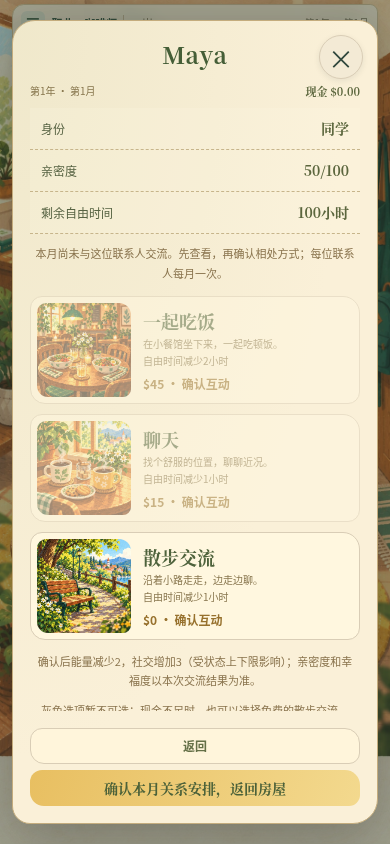
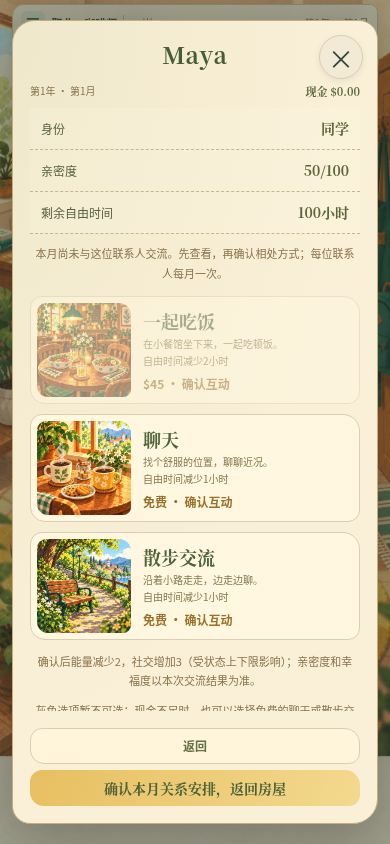
Apply confirmed free chat and walk with dinner at45

diff --git a/sw.js b/sw.js
@@ -1,5 +1,5 @@
-const CACHE='wealth-life-v28.3-social-per-person1';
-const ASSETS=["./social-records.js?v=28.3-social-per-person1","./social-time.js?v=28.3-social-per-person1","./social-pages-art.js?v=28.3-social-per-person1","./social-pages-art.css?v=28.3-social1","./assets/career/social-scenes.webp","./assets/career/life-funding.webp","./life-pages-art.js?v=28.3-life-pages1","./life-pages-art.css?v=28.3-life-pages1","./assets/career/life-activities.webp","./insurance-rules.js?v=28.3-insurance1","./insurance-hub.js?v=28.3-insurance1","./insurance-hub.css?v=28.3-insurance1","./life-hub-art.js?v=28.3-life-hub1","./life-hub-art.css?v=28.3-life-hub1","./assets/career/life-arrangements.webp","./recovery-activity-guards.js?v=28.3-recovery-guard1","./pet-social-contacts.js?v=28.3-pet-simple1","./assets/career/pet-gecko-cleaning.webp","./assets/career/pet-spider-cleaning.webp","./assets/career/pet-tortoise-cleaning.webp","./assets/career/pet-chameleon-cleaning.webp","./assets/career/pet-cat-professional.webp","./assets/career/pet-cat-cleaning-scenes.webp","./pet-art-map.js?v=28.3-pet-simple1","./pet-art-map.css?v=28.3-pet-map1","./pet-page-art.js?v=28.3-pet-map1","./assets/career/pet-policy.webp","./assets/career/pet-crocodile-cleaning.webp","./assets/career/pet-crocodile-adoption.webp","./assets/career/pet-cat-adoption.webp","./pet-funds-shortage.js?v=28.3-pet-funds1","./pet-funds-shortage.css?v=28.3-pet-funds1","./pet-adoption-success.js?v=28.3-pet-map1","./pet-adoption-success.css?v=28.3-pet-success1","./assets/career/pet-adoption-success.webp","./pet-owned-hub.js?v=28.3-pet-map1","./pet-owned-hub.css?v=28.3-pet-owned1","./assets/career/pet-owned-sheet.webp","./assets/career/pet-cleaning-scenes.webp","./pet-daily-care.js?v=28.3-pet-simple1","./pet-daily-care.css?v=28.3-pet-clean-art1","./pet-adoption-art.js?v=28.3-pet-map1","./pet-adoption-art.css?v=28.3-pet-form1","./assets/career/pet-corgi-adoption.webp","./pet-selection-art.js?v=28.3-pet-entry1","./pet-selection-art.css?v=28.3-pet-center1","./assets/career/pet-selection.webp","./pet-hub-art.js?v=28.3-pet-care-label1","./pet-hub-art.css?v=28.3-pet-hub1","./assets/career/pet-hub.webp","./assets/career/home-mobile.webp","./room-arrangements.js?v=28.3-pet-map1","./map-card-data.js?v=28.3-pet-social-limit1", "./map-card-rules.js?v=28.3-mapcards1", "./map-card-system.js?v=28.3-pet-simple1", "./map-card.css?v=28.3-mapcards1", "./assets/career/map-pet-unwell.webp", "./assets/career/map-pet-injury.webp", "./assets/career/map-pet-companion.webp", "./assets/career/map-pet-social.webp", "./assets/career/map-pet-mishap.webp", "./assets/career/map-investment-studio.webp", "./assets/career/map-investment-bun-shop.webp", "./assets/career/map-investment-laundry.webp"] .concat(["./cafe-rules.js?v=28.3-manager1","./cafe-system.js?v=28.3-manager1","./career-entry.js?v=28.3-mobile-room1","./career-entry.css?v=28.3-entry2","./assets/career/shift-promotion-pending.webp","./assets/career/shift-promotion-preview.webp","./assets/career/coffee-course.webp","./pet-adoption.js?v=28.3-pet-success1","./candidate-art.js?v=28.3-candidate1","./assets/career/barista-portrait.webp","./assets/career/pet-time-shortage.webp","./assets/career/pet-funds-shortage.webp","./assets/career/pet-crocodile-care.webp","./assets/career/bank-application.webp","./assets/career/bank-payment.webp","./housing-art.js?v=28.3-housing1","./assets/career/housing-select.webp","./assets/career/housing-reserve.webp","./assets/career/living-cost.webp","./return-art.js?v=28.3-return1","./assets/career/insurance.webp","./assets/career/return-energy.webp","./assets/career/return-stress.webp","./assets/career/payday.webp","./health-art.js?v=28.3-health1","./assets/career/rest-arrange.webp","./assets/career/rest-complete.webp","./assets/career/hospital-recovery.webp","./assets/career/month-recovery.webp","./education-art.js?v=28.3-education1","./assets/career/degrees.webp","./assets/career/associate-preview.webp","./learning-art.js?v=28.3-learning1","./assets/career/learning.webp","./assets/career/management-course.webp","./assets/career/service-course.webp","./hobby-art.js?v=28.3-room2","./assets/career/hobbies.webp","./home-scene.js?v=28.3-room-unified1","./home-scene.css?v=28.3-room-unified1","./assets/career/home.webp","./release-info.js?v=28.3-internal1","./financial-crisis.js?v=28.3-internal1","./four-state.js?v=28.3-internal1","./rest-state.js?v=28.3-internal1","./coffee-salary.js?v=28.3-internal1","./housing-lease.js?v=28.3-internal1","./pet-care.js?v=28.3-pet-map1","./necessary-bills.js?v=28.3-internal1","./recovery-ui.js?v=28.3-internal1","./medical-insurance.js?v=28.3-internal1","./recovery-rules.js?v=28.3-internal1","./time-ledger.js?v=28.3-internal1","./time-flow.js?v=28.3-home-end1","./assets/career/town.webp","./coffee-career.js?v=28.3-mapcards1", "./assets/career/barista-staff.webp", "./assets/career/barista-busy.webp", "./assets/career/barista-cut.webp", "./assets/career/barista-tip.webp", "./assets/career/barista-departure.webp", "./assets/career/shift-training.webp", "./assets/career/shift-schedule.webp", "./assets/career/shift-schedule-success.webp", "./assets/career/shift-schedule-failure.webp", "./assets/career/shift-complaint.webp", "./assets/career/shift-complaint-success.webp", "./assets/career/shift-complaint-failure.webp", "./assets/career/shift-acting.webp", "./assets/career/shift-acting-success.webp", "./assets/career/shift-acting-failure.webp", "./assets/career/shift-praise.webp", "./assets/career/intro.webp"] .concat(["./shift-lead.js?v=28.3-internal1","./shift-lead.css?v=28.3-internal1","./paper.css?v=28.3-internal1",'./coffee.js?v=28.3-internal1','./town.js?v=28.3-internal1','./','./index.html','./core.js','./flow.js?v=28.3-internal1','./journey.js?v=28.3-internal1','./batch.js?v=28.3-mapcards1','./revision.js?v=28.3-social-per-person1','./annual.js?v=28.3-internal1','./core.js?v=28.3-mapcards1','./presentation.js?v=28.3-candidate1','./presentation.css?v=28.3-internal1','./city.svg','./manifest.webmanifest','./icons/icon-192.png','./icons/icon-512.png']));
+const CACHE='wealth-life-v28.3-social-price1';
+const ASSETS=["./social-records.js?v=28.3-social-per-person1","./social-time.js?v=28.3-social-price1","./social-pages-art.js?v=28.3-social-price1","./social-pages-art.css?v=28.3-social1","./assets/career/social-scenes.webp","./assets/career/life-funding.webp","./life-pages-art.js?v=28.3-life-pages1","./life-pages-art.css?v=28.3-life-pages1","./assets/career/life-activities.webp","./insurance-rules.js?v=28.3-insurance1","./insurance-hub.js?v=28.3-insurance1","./insurance-hub.css?v=28.3-insurance1","./life-hub-art.js?v=28.3-life-hub1","./life-hub-art.css?v=28.3-life-hub1","./assets/career/life-arrangements.webp","./recovery-activity-guards.js?v=28.3-recovery-guard1","./pet-social-contacts.js?v=28.3-pet-simple1","./assets/career/pet-gecko-cleaning.webp","./assets/career/pet-spider-cleaning.webp","./assets/career/pet-tortoise-cleaning.webp","./assets/career/pet-chameleon-cleaning.webp","./assets/career/pet-cat-professional.webp","./assets/career/pet-cat-cleaning-scenes.webp","./pet-art-map.js?v=28.3-pet-simple1","./pet-art-map.css?v=28.3-pet-map1","./pet-page-art.js?v=28.3-pet-map1","./assets/career/pet-policy.webp","./assets/career/pet-crocodile-cleaning.webp","./assets/career/pet-crocodile-adoption.webp","./assets/career/pet-cat-adoption.webp","./pet-funds-shortage.js?v=28.3-pet-funds1","./pet-funds-shortage.css?v=28.3-pet-funds1","./pet-adoption-success.js?v=28.3-pet-map1","./pet-adoption-success.css?v=28.3-pet-success1","./assets/career/pet-adoption-success.webp","./pet-owned-hub.js?v=28.3-pet-map1","./pet-owned-hub.css?v=28.3-pet-owned1","./assets/career/pet-owned-sheet.webp","./assets/career/pet-cleaning-scenes.webp","./pet-daily-care.js?v=28.3-pet-simple1","./pet-daily-care.css?v=28.3-pet-clean-art1","./pet-adoption-art.js?v=28.3-pet-map1","./pet-adoption-art.css?v=28.3-pet-form1","./assets/career/pet-corgi-adoption.webp","./pet-selection-art.js?v=28.3-pet-entry1","./pet-selection-art.css?v=28.3-pet-center1","./assets/career/pet-selection.webp","./pet-hub-art.js?v=28.3-pet-care-label1","./pet-hub-art.css?v=28.3-pet-hub1","./assets/career/pet-hub.webp","./assets/career/home-mobile.webp","./room-arrangements.js?v=28.3-pet-map1","./map-card-data.js?v=28.3-pet-social-limit1", "./map-card-rules.js?v=28.3-mapcards1", "./map-card-system.js?v=28.3-pet-simple1", "./map-card.css?v=28.3-mapcards1", "./assets/career/map-pet-unwell.webp", "./assets/career/map-pet-injury.webp", "./assets/career/map-pet-companion.webp", "./assets/career/map-pet-social.webp", "./assets/career/map-pet-mishap.webp", "./assets/career/map-investment-studio.webp", "./assets/career/map-investment-bun-shop.webp", "./assets/career/map-investment-laundry.webp"] .concat(["./cafe-rules.js?v=28.3-manager1","./cafe-system.js?v=28.3-manager1","./career-entry.js?v=28.3-mobile-room1","./career-entry.css?v=28.3-entry2","./assets/career/shift-promotion-pending.webp","./assets/career/shift-promotion-preview.webp","./assets/career/coffee-course.webp","./pet-adoption.js?v=28.3-pet-success1","./candidate-art.js?v=28.3-candidate1","./assets/career/barista-portrait.webp","./assets/career/pet-time-shortage.webp","./assets/career/pet-funds-shortage.webp","./assets/career/pet-crocodile-care.webp","./assets/career/bank-application.webp","./assets/career/bank-payment.webp","./housing-art.js?v=28.3-housing1","./assets/career/housing-select.webp","./assets/career/housing-reserve.webp","./assets/career/living-cost.webp","./return-art.js?v=28.3-return1","./assets/career/insurance.webp","./assets/career/return-energy.webp","./assets/career/return-stress.webp","./assets/career/payday.webp","./health-art.js?v=28.3-health1","./assets/career/rest-arrange.webp","./assets/career/rest-complete.webp","./assets/career/hospital-recovery.webp","./assets/career/month-recovery.webp","./education-art.js?v=28.3-education1","./assets/career/degrees.webp","./assets/career/associate-preview.webp","./learning-art.js?v=28.3-learning1","./assets/career/learning.webp","./assets/career/management-course.webp","./assets/career/service-course.webp","./hobby-art.js?v=28.3-room2","./assets/career/hobbies.webp","./home-scene.js?v=28.3-room-unified1","./home-scene.css?v=28.3-room-unified1","./assets/career/home.webp","./release-info.js?v=28.3-internal1","./financial-crisis.js?v=28.3-internal1","./four-state.js?v=28.3-internal1","./rest-state.js?v=28.3-internal1","./coffee-salary.js?v=28.3-internal1","./housing-lease.js?v=28.3-internal1","./pet-care.js?v=28.3-pet-map1","./necessary-bills.js?v=28.3-internal1","./recovery-ui.js?v=28.3-internal1","./medical-insurance.js?v=28.3-internal1","./recovery-rules.js?v=28.3-internal1","./time-ledger.js?v=28.3-internal1","./time-flow.js?v=28.3-home-end1","./assets/career/town.webp","./coffee-career.js?v=28.3-mapcards1", "./assets/career/barista-staff.webp", "./assets/career/barista-busy.webp", "./assets/career/barista-cut.webp", "./assets/career/barista-tip.webp", "./assets/career/barista-departure.webp", "./assets/career/shift-training.webp", "./assets/career/shift-schedule.webp", "./assets/career/shift-schedule-success.webp", "./assets/career/shift-schedule-failure.webp", "./assets/career/shift-complaint.webp", "./assets/career/shift-complaint-success.webp", "./assets/career/shift-complaint-failure.webp", "./assets/career/shift-acting.webp", "./assets/career/shift-acting-success.webp", "./assets/career/shift-acting-failure.webp", "./assets/career/shift-praise.webp", "./assets/career/intro.webp"] .concat(["./shift-lead.js?v=28.3-internal1","./shift-lead.css?v=28.3-internal1","./paper.css?v=28.3-internal1",'./coffee.js?v=28.3-internal1','./town.js?v=28.3-internal1','./','./index.html','./core.js','./flow.js?v=28.3-internal1','./journey.js?v=28.3-internal1','./batch.js?v=28.3-mapcards1','./revision.js?v=28.3-social-price1','./annual.js?v=28.3-internal1','./core.js?v=28.3-mapcards1','./presentation.js?v=28.3-candidate1','./presentation.css?v=28.3-internal1','./city.svg','./manifest.webmanifest','./icons/icon-192.png','./icons/icon-512.png']));
 self.addEventListener('install',e=>{self.skipWaiting();e.waitUntil(caches.open(CACHE).then(c=>c.addAll(ASSETS)))});
 self.addEventListener('activate',e=>e.waitUntil(Promise.all([caches.keys().then(keys=>Promise.all(keys.filter(k=>k.startsWith('wealth-life-')&&k!==CACHE).map(k=>caches.delete(k)))),self.clients.claim()])));
 // Register the cache lifetime synchronously while the fetch event is active.

diff --git a/social-pages-art.js b/social-pages-art.js
@@ -40,16 +40,16 @@
   b.classList.add('social-person-paper');$('eventTitle').textContent=p.name+(relationStage(p)?' · '+relationStage(p):'');
   b.append(row('身份',p.status||p.job||'已认识的人'),row('亲密度',Math.round(p.relation)+'/100'),row('剩余自由时间',currentCareerTime().free+'小时'));monthly(b,p);
   const descriptions=['在小餐馆坐下来，一起吃顿饭。','找个舒服的位置，聊聊近况。','沿着小路走走，边走边聊。'];
-  const options=[['确认一起吃饭 · $45','一起吃饭','$45',1],['确认聊天 · $15','聊天','$15',2],['确认散步交流 · $0','散步交流','$0',3]],list=document.createElement('div');list.className='social-option-list';
+  const options=[['确认一起吃饭 · $45','一起吃饭','$45',1],['确认聊天 · $0','聊天','$0',2],['确认散步交流 · $0','散步交流','$0',3]],list=document.createElement('div');list.className='social-option-list';
   options.forEach(([label,name,cost,s],n)=>{
    const button=buttons.find(x=>x.textContent===label);if(!button)return;const original=button.onclick,owner=state,month=state.month;
    button.onclick=function(e){if(state!==owner||state.month!==month||!b.isConnected||!state.people.includes(p))return;return original.call(this,e)};
    button.className='social-option';button.setAttribute('aria-label',label);button.dataset.socialScene=s;
    const hours=n===0?2:1;button.disabled=button.disabled||currentCareerTime().free<hours;
-   const copy=document.createElement('span'),heading=document.createElement('strong'),desc=document.createElement('small'),time=document.createElement('small'),price=document.createElement('b');heading.textContent=name;desc.textContent=descriptions[n];time.textContent='自由时间减少'+hours+'小时';price.textContent=cost+' · 确认互动';copy.append(heading,desc,time,price);button.replaceChildren(scene(s),copy);list.append(button);
+   const copy=document.createElement('span'),heading=document.createElement('strong'),desc=document.createElement('small'),time=document.createElement('small'),price=document.createElement('b');heading.textContent=name;desc.textContent=descriptions[n];time.textContent='自由时间减少'+hours+'小时';price.textContent=(cost==='$0'?'免费':cost)+' · 确认互动';copy.append(heading,desc,time,price);button.replaceChildren(scene(s),copy);list.append(button);
   });b.append(list);
   b.append(note('确认后能量减少2，社交增加3（受状态上下限影响）；亲密度和幸福度以本次交流结果为准。'));
-  if(!socialRecord(p)&&state.cash<45)b.append(note('灰色选项暂不可选；现金不足时，也可以选择免费的散步交流。'));
+  if(!socialRecord(p)&&state.cash<45)b.append(note('灰色选项暂不可选；现金不足时，也可以选择免费的聊天或散步交流。'));
   if(!socialRecord(p)&&currentCareerTime().free<2)b.append(note('自由时间不足的互动暂不可选；不会扣款或预支下个月时间。'));
   actions();return result;
  };

diff --git a/revision.js b/revision.js
@@ -60,7 +60,7 @@ const SOCIAL_SCENES=[
  {title:'老照片与回忆',desc:'一张旧照片让你们聊起以前的经历。',gain:10,happiness:4}
 ];
 function socialRecord(p){return SocialRecords.find(state,p)}
-openSocialPerson=function(i){const p=state.people[i];if(!p)return;const done=socialRecord(p);showEvent('关系互动',p.name+' · '+relationStage(p),'选择相处方式。',[['身份',p.status||p.job],['亲密度',Math.round(p.relation)+'/100']],[['确认一起吃饭 · $45',()=>doSocial(p,45,8,'socialMeal'),true,!!done||state.cash<45],['确认聊天 · $15',()=>doSocial(p,15,5,'socialCoffee'),false,!!done||state.cash<15],['确认散步交流 · $0',()=>doSocial(p,0,4,'socialWalk'),false,!!done],['返回',finish,false]])};
+openSocialPerson=function(i){const p=state.people[i];if(!p)return;const done=socialRecord(p);showEvent('关系互动',p.name+' · '+relationStage(p),'选择相处方式。',[['身份',p.status||p.job],['亲密度',Math.round(p.relation)+'/100']],[['确认一起吃饭 · $45',()=>doSocial(p,45,8,'socialMeal'),true,!!done||state.cash<45],['确认聊天 · $0',()=>doSocial(p,0,5,'socialCoffee'),false,!!done],['确认散步交流 · $0',()=>doSocial(p,0,4,'socialWalk'),false,!!done],['返回',finish,false]])};
 doSocial=function(p,cost,points,kind){if(socialRecord(p)||!spendConfirmed(kind,cost,{person:p.id||p.name}))return;state.socialSequence=(state.socialSequence||0)+1;const personIndex=Math.max(0,state.people.indexOf(p)),scene=SOCIAL_SCENES[(state.month+personIndex*2+state.socialSequence)%SOCIAL_SCENES.length],success=Math.random()<Math.max(.2,Math.min(.98,.8+attributeModifier()+(roleTrait().socialBonus||0)*.025));const gain=success?scene.gain+(roleTrait().socialBonus||0):2;p.relation=Math.min(100,p.relation+gain);state.social=Math.min(100,state.social+3);state.happiness=Math.max(0,Math.min(100,state.happiness+(success?scene.happiness:-2)));state.energy=Math.max(0,state.energy-2);SocialRecords.add(state,p,{month:state.month,person:p.id||p.name,scene:scene.title,success,cost,gain});save();showEvent('关系结果',scene.title,scene.desc+(success?' 这次交流让彼此更了解。':' 你有些疲惫，对话很快结束。'),[['关系变化','+'+gain],['亲密度',Math.round(p.relation)+'/100']],[['继续',finish,true]])};
 // Buyer offers settle the chosen asset exactly once, paying off its secured loan first.
 function createBuyerOffer(){state.buyerOffers??={};const saved=state.buyerOffers[state.month];if(saved)return saved;const eligible=state.assets.filter(a=>a.kind==='rental'||V26_INSTRUMENTS.some(i=>i.id===a.instrument&&i.kind==='股票'));if(!eligible.length)return null;const a=eligible[Math.floor(Math.random()*eligible.length)],premium=.04+Math.random()*.08;return state.buyerOffers[state.month]={assetId:a.id,gross:roundCash(a.value*(1+premium)),premium,status:'open',name:a.name}}

diff --git a/index.html b/index.html
@@ -553,7 +553,7 @@ window.v245OpenHousing=()=>document.getElementById('housingBtn').click();
 <script src="presentation.js?v=28.3-candidate1"></script>
 <script src="flow.js?v=28.3-internal1"></script>
 <script src="journey.js?v=28.3-internal1"></script>
-<script src="batch.js?v=28.3-mapcards1"></script><script src="social-records.js?v=28.3-social-per-person1"></script><script src="revision.js?v=28.3-social-per-person1"></script>
+<script src="batch.js?v=28.3-mapcards1"></script><script src="social-records.js?v=28.3-social-per-person1"></script><script src="revision.js?v=28.3-social-price1"></script>
 <script src="annual.js?v=28.3-internal1"></script>
 <script src="town.js?v=28.3-internal1"></script>
 <script src="coffee.js?v=28.3-internal1"></script>
@@ -617,6 +617,6 @@ window.v245OpenHousing=()=>document.getElementById('housingBtn').click();
 <link rel="stylesheet" href="life-pages-art.css?v=28.3-life-pages1">
 <script src="life-pages-art.js?v=28.3-life-pages1"></script>
 <link rel="stylesheet" href="social-pages-art.css?v=28.3-social1">
-<script src="social-time.js?v=28.3-social-per-person1"></script>
-<script src="social-pages-art.js?v=28.3-social-per-person1"></script>
+<script src="social-time.js?v=28.3-social-price1"></script>
+<script src="social-pages-art.js?v=28.3-social-price1"></script>
 </body></html>

diff --git a/social-time.js b/social-time.js
@@ -1,11 +1,13 @@
 // User-confirmed optional interaction hours; old receipts are not charged retroactively.
 function socialInteractionHours(kind){return ({socialCoffee:1,socialWalk:1,socialMeal:2})[kind]??null;}
+function socialInteractionCost(kind){return ({socialCoffee:0,socialWalk:0,socialMeal:45})[kind]??null;}
 (function(){
  const timeBefore=currentCareerTime;
  currentCareerTime=function(){const t=timeBefore(),used=SocialRecords.all(state).reduce((n,r)=>n+(Number.isFinite(r.hours)?Math.max(0,r.hours):0),0);return {...t,free:Math.max(0,t.free-used),socialHours:used};};
  const before=doSocial;
  doSocial=function(p,cost,points,kind){
   const hours=socialInteractionHours(kind);if(hours===null)return before(p,cost,points,kind);
+  cost=socialInteractionCost(kind);
   if(socialRecord(p))return false;
   if(currentCareerTime().free<hours){const i=state.people.indexOf(p);if(i>=0)openSocialPerson(i);return false;}
   const result=before(p,cost,points,kind),r=socialRecord(p);

diff --git a/qa/browser-social-pages-art.py b/qa/browser-social-pages-art.py
@@ -24,7 +24,7 @@ try:
   shot('contacts');layout();assert snap()==before
   page.locator('.social-contact').first.click();assert snap()==before;assert page.locator('.social-option').count()==3;shot('person');layout()
   results=[]
-  for i,cost in enumerate([45,15,0]):
+  for i,cost in enumerate([45,0,0]):
    reset();page.evaluate('Math.random=()=>.01');before=snap();page.locator('.social-contact').first.click();assert snap()==before
    prior=page.evaluate('({cash:state.cash,energy:state.energy,social:state.social,happiness:state.happiness,relation:state.people[0].relation,free:currentCareerTime().free})')
    page.evaluate('(i)=>{window.oldSocialConfirm=document.querySelectorAll(".social-option")[i].onclick}',i)
@@ -65,8 +65,12 @@ try:
   page.evaluate('$("networkBtn").click()');page.locator('.social-contact').last.click();page.locator('.social-option').nth(2).click();assert page.evaluate('currentCareerTime().free')==free-1
   assert page.evaluate('SocialRecords.all(state).length')==2
   # Zero cash still allows the original free walk; disabled paid cards never execute.
-  reset('state.cash=0');page.locator('.social-contact').first.click();assert page.locator('.social-option:disabled').count()==2;shot('no-cash')
+  reset('state.cash=0');page.locator('.social-contact').first.click();assert page.locator('.social-option:disabled').count()==1;assert page.locator('.social-option').nth(1).is_enabled();shot('no-cash')
   page.locator('.social-option').nth(2).click();assert page.evaluate('state.cash')==0 and page.evaluate('socialRecord().cost')==0
+  # Free chat works at zero cash, spends one hour, and uses only this person's quota.
+  reset('state.cash=0');page.locator('.social-contact').first.click();page.locator('.social-option').nth(1).click();assert page.evaluate('state.cash')==0 and page.evaluate('socialRecord().cost')==0 and page.evaluate('socialRecord().hours')==1
+  assert page.evaluate('currentCareerTime().free')==99
+  page.evaluate('$("networkBtn").click()');page.locator('.social-contact').first.click();assert page.locator('.social-option:disabled').count()==3
   # Exactly one hour allows chat/walk but not dinner. Changed time is rechecked at confirmation.
   reset('state.petCareTime={month:state.month,hours:currentCareerTime().free-1}')
   page.locator('.social-contact').first.click();assert page.locator('.social-option').nth(0).is_disabled();assert page.locator('.social-option').nth(1).is_enabled()
@@ -92,8 +96,8 @@ try:
   reset();before=page.evaluate('({cash:state.cash,people:JSON.stringify(state.people)})');page.get_by_role('button',name='确认本月关系安排，返回房屋',exact=True).click();assert page.evaluate('roomChecks().social.confirmed') is True;assert page.evaluate('state.cash')==before['cash'];assert page.evaluate('JSON.stringify(state.people)')==before['people']
   assert not errors,errors;context.close()
   # Install actual SW and reopen the relationship page offline with the new image.
-  context=browser.new_context(viewport={'width':390,'height':844});page=context.new_page();page.goto(f'http://127.0.0.1:{server.server_port}',wait_until='networkidle');page.evaluate('navigator.serviceWorker.ready');page.reload(wait_until='networkidle');page.wait_for_function('navigator.serviceWorker.controller!==null');assert page.evaluate('caches.keys()')==['wealth-life-v28.3-social-per-person1']
+  context=browser.new_context(viewport={'width':390,'height':844});page=context.new_page();page.goto(f'http://127.0.0.1:{server.server_port}',wait_until='networkidle');page.evaluate('navigator.serviceWorker.ready');page.reload(wait_until='networkidle');page.wait_for_function('navigator.serviceWorker.controller!==null');assert page.evaluate('caches.keys()')==['wealth-life-v28.3-social-price1']
   context.set_offline(True);page.reload(wait_until='networkidle');page.get_by_role('button',name='查看职业预览',exact=True).click();page.get_by_role('button',name='选择这个人生',exact=True).click();page.evaluate('roomOpenArrangement("social")');assert page.locator('.social-contact').count()>0
   assert page.evaluate('new Promise((resolve,reject)=>{const i=new Image;i.onload=()=>resolve(i.naturalWidth);i.onerror=reject;i.src="assets/career/social-scenes.webp"})')>0
-  context.close();browser.close();result={'passed':True,'interactions':results,'checks':['saved contacts and new acquaintances; no invented people','browsing no costs, effects, time or checks','three original payments, per-contact monthly quota, multiple contacts accumulated hours, old receipt migration, same-name distinct IDs, reload and next month','confirmed1/1/2 hours, time changed after preview, exact zero, next month and old receipt compatibility','original failure description and loss retained','free walk at zero cash','stale detached/month/save callbacks blocked','recovery redirect and empty contacts','explicit room acknowledgement without interaction','320/390/desktop centered without horizontal overflow','real service worker and offline art'],'pageErrors':errors,'limits':['isolated Chromium, not real phone','only confirmed room interaction hours added; other activity proposals unchanged']};Path('qa/browser-evidence/social-pages-art.json').write_text(json.dumps(result,ensure_ascii=False,indent=2)+'\n');print(json.dumps(result,ensure_ascii=False,indent=2))
+  context.close();browser.close();result={'passed':True,'interactions':results,'checks':['saved contacts and new acquaintances; no invented people','browsing no costs, effects, time or checks','three original payments, per-contact monthly quota, multiple contacts accumulated hours, old receipt migration, same-name distinct IDs, reload and next month','confirmed1/1/2 hours, time changed after preview, exact zero, next month and old receipt compatibility','original failure description and loss retained','free chat and walk at zero cash; chat uses one hour and contact monthly quota','stale detached/month/save callbacks blocked','recovery redirect and empty contacts','explicit room acknowledgement without interaction','320/390/desktop centered without horizontal overflow','real service worker and offline art'],'pageErrors':errors,'limits':['isolated Chromium, not real phone','only confirmed room interaction hours added; other activity proposals unchanged']};Path('qa/browser-evidence/social-pages-art.json').write_text(json.dumps(result,ensure_ascii=False,indent=2)+'\n');print(json.dumps(result,ensure_ascii=False,indent=2))
 finally:server.shutdown();server.server_close()

diff --git a/docs/confirmed/social-interactions-2026-10-26.md b/docs/confirmed/social-interactions-2026-10-26.md
@@ -1,8 +1,8 @@
-# 关系逐项确认：耗时与次数（2026-10-26）
+# 关系逐项确认：耗时、次数与费用（2026-10-26）
 
 用户要求一个个确定关系规则。第一项明确选择“可以，按1／1／2小时”：聊天消耗1小时自由时间，散步交流消耗1小时自由时间，一起吃饭消耗2小时自由时间。
 
-耗时与下方互动次数已获明确确认。费用、关系/幸福效果仍需逐项核对，继续沿当前实现；不能把旧代码数值全记为用户新确认。
+耗时、下方互动次数及费用已获明确确认。关系/幸福效果仍需逐项核对，继续沿当前实现；不能把旧代码数值全记为用户新确认。
 
 已接入social-time.js：确认成功（包括原交流不顺利结果）后在当月socialMonth回执记录hours，currentCareerTime从原剩余时间中减去一次，与课程/休息/宠物/事件扣时叠加；预览、时间不足、付款失败和重复回调不扣。无欠时/预支。读档保留，次月原记录不再占时；旧已完成回执未记录hours时不追扣。
 
@@ -19,3 +19,11 @@ SocialRecords按稳定联系人ID保存当月多份回执（无ID旧人物沿名
 联系人列表逐人标明本月已/待交流，个人页只限制本人；原阶段向导也只在所有联系人均完成时显示全体已完成。地图事件、宠物交流月限及其他活动没有改变。
 
 44个Node测试及实际浏览器/离线检查通过：三个联系人分别付款耗时并累加、同名不同ID、旧单记录保留/续加、重复/读档/次月、资源不足与康复门禁。缓存wealth-life-v28.3-social-per-person1，图仍74，仅本地未上传。非真机。
+
+## 第三项：互动费用（用户明确确认）
+
+用户先确认“散步聊天免费”，再确认吃饭“按45就好”。现行：一起吃饭45现金/2小时；聊天0现金/1小时；散步交流0现金/1小时。各项仍共用每位联系人每月一次额度。
+
+修改真实聊天确认回调与卡片金额为0，执行层对三种互动按确认价45/0/0统一核对，不因旧回调传入15而扣聊天费。免费聊天在现金为0时可确认，但仍检查时间、康复状态及该联系人的月度记录。旧已付聊天回执不改、不自动退款，也不重复执行。
+
+44个Node测试及实际关系浏览器/离线检查通过，含零现金免费聊天、减1小时并占本人月限、多人费用耗时累计、重复/旧回执/次月兼容。图片74不变，缓存wealth-life-v28.3-social-price1，仅本地未上传。

diff --git a/CODEX_HANDOFF.md b/CODEX_HANDOFF.md
@@ -1,5 +1,7 @@
 # 财富人生 Wealth Life — Codex 接手说明
 
+最新逐项费用（2026-10-26）：用户明确“散步聊天免费”，吃饭“按45就好”。真实聊天付款改0、卡片显示免费，执行层固定45/0/0防旧回调误扣15。耗时仍2/1/1h、每位联系人每月一次；旧已付记录不修改/退款。44个Node测试与实际关系浏览器/离线通过，含零现金聊天仍扣1h占月限。见 [关系确认](docs/confirmed/social-interactions-2026-10-26.md)。缓存 `wealth-life-v28.3-social-price1`，关系/幸福效果尚待逐项确认，本地未上传。
+
 最新逐项规则（2026-10-26）：用户明确改为“每位联系人每月一次”，已接入按联系人ID的多回执和累计扣时；同一人的吃饭/聊天/散步共用一次，不同人分别计算。旧单份回执占原联系人次数、已有耗时保留且不追扣缺失小时。同名不同ID分别计算，重复/读档/次月检查通过。见 [关系确认规则](docs/confirmed/social-interactions-2026-10-26.md)。44个Node测试及真实关系浏览器/离线通过，缓存 `wealth-life-v28.3-social-per-person1`。只新增确认次数，费用/关系效果仍待逐项核对；地图/宠物月限不改。本地未上传。
 
 最新逐项规则（2026-10-26）：用户明确确认聊天1h、散步1h、吃饭2h，见 [互动耗时确认](docs/confirmed/social-interactions-2026-10-26.md)。已接social-time.js及卡片文案、资源不足门禁/执行再检查和当月回执扣时；不追扣旧已完成交流，读档不重复、次月清除占时。43个Node测试及真实关系浏览器/离线检查通过，缓存 `wealth-life-v28.3-social-time1`。只确认耗时，费用/月限/关系效果仍须逐项核对，不擅自采用其他耗时草案。本地未上传。

diff --git a/NEXT_SESSION.md b/NEXT_SESSION.md
@@ -1,5 +1,7 @@
 # 新会话接手
 
+最新逐项费用（2026-10-26）：用户明确“散步聊天免费”，吃饭“按45就好”。真实聊天付款改0、卡片显示免费，执行层固定45/0/0防旧回调误扣15。耗时仍2/1/1h、每位联系人每月一次；旧已付记录不修改/退款。44个Node测试与实际关系浏览器/离线通过，含零现金聊天仍扣1h占月限。见 [关系确认](docs/confirmed/social-interactions-2026-10-26.md)。缓存 `wealth-life-v28.3-social-price1`，关系/幸福效果尚待逐项确认，本地未上传。
+
 最新逐项规则（2026-10-26）：用户明确改为“每位联系人每月一次”，已接入按联系人ID的多回执和累计扣时；同一人的吃饭/聊天/散步共用一次，不同人分别计算。旧单份回执占原联系人次数、已有耗时保留且不追扣缺失小时。同名不同ID分别计算，重复/读档/次月检查通过。见 [关系确认规则](docs/confirmed/social-interactions-2026-10-26.md)。44个Node测试及真实关系浏览器/离线通过，缓存 `wealth-life-v28.3-social-per-person1`。只新增确认次数，费用/关系效果仍待逐项核对；地图/宠物月限不改。本地未上传。
 
 最新逐项规则（2026-10-26）：用户明确确认聊天1h、散步1h、吃饭2h，见 [互动耗时确认](docs/confirmed/social-interactions-2026-10-26.md)。已接social-time.js及卡片文案、资源不足门禁/执行再检查和当月回执扣时；不追扣旧已完成交流，读档不重复、次月清除占时。43个Node测试及真实关系浏览器/离线检查通过，缓存 `wealth-life-v28.3-social-time1`。只确认耗时，费用/月限/关系效果仍须逐项核对，不擅自采用其他耗时草案。本地未上传。

diff --git a/progress/social-pages-art-2026-10-26.md b/progress/social-pages-art-2026-10-26.md
@@ -1,5 +1,7 @@
 # 关系页插画与原互动接入（2026-10-26）
 
+最新费用覆盖：用户已确认聊天和散步免费，吃饭45，见 [关系确认](../docs/confirmed/social-interactions-2026-10-26.md)。下方旧聊天15的说明只属历史。
+
 最新覆盖：用户确认每位联系人每月一次，现已按人记录和累计扣时，见 [关系规则](../docs/confirmed/social-interactions-2026-10-26.md)。下方“每月总共一次”为旧状态，不再适用。
 
 后续覆盖：用户已单独确认聊天1h、散步1h、吃饭2h并接入，见 [互动耗时确认](../docs/confirmed/social-interactions-2026-10-26.md)。下方“未采用耗时”的描述为此前状态，其他旧规则未获本轮新确认。
